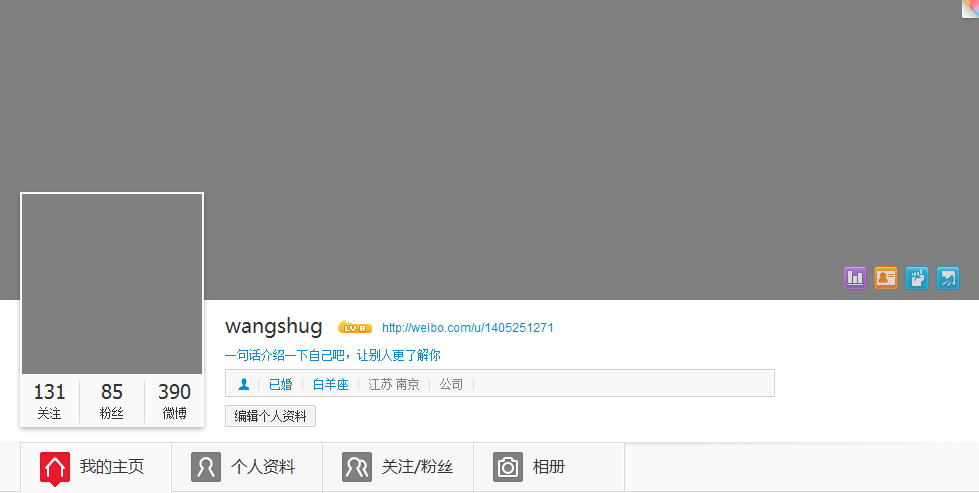
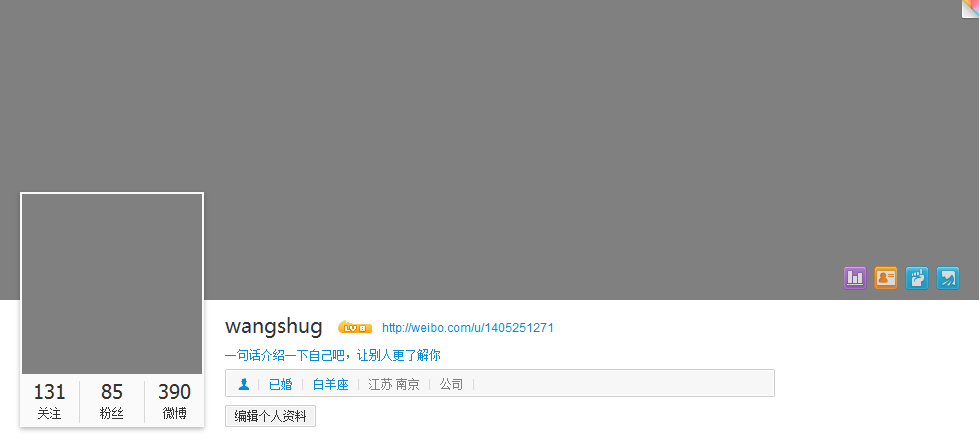
1.change template file size 2.fix bug for image type

diff --git a/js/load-image2.js b/js/load-image2.js
@@ -4,7 +4,7 @@
 	var profile;
 
 	var coverWidth = 980;
-    var templateHeight = 494
+    var templateHeight = 440
 	var coverHeight = 300;
 	var coverAndProfileHeight = 400;
 	var profileFromX = 20;
@@ -29,31 +29,31 @@
 		c.height = templateHeight;
         var h = c.getContext("2d");
            
-	var imageObj = new Image();
-	imageObj.onload = function() {
-		h.drawImage(this, 0, 0);
-		var k = document.createElement("canvas"),
-		l;
-		k.width  = coverWidth;
-		k.height = coverAndProfileHeight;
-		l = k.getContext("2d");
+        var imageObj = new Image();
+        imageObj.onload = function() {
+            h.drawImage(this, 0, 0);
+            var k = document.createElement("canvas"),
+            l;
+            k.width  = coverWidth;
+            k.height = coverAndProfileHeight;
+            l = k.getContext("2d");
 
-		//first draw upload picture this should large than whole heigh of cover and profile
-		l.drawImage(a,0,0, coverWidth, coverAndProfileHeight),
-		//draw profile margin
-		l.rect(profileFromX, profileFromY, profileWithMargin, profileWithMargin),
-		l.lineWidth = marginSize,
-		l.strokeStyle = 'white',
-		l.stroke();
-		//get cover image from process canvas
-		cover = l.getImageData(0, 0, coverWidth, coverHeight);			
-		//get profile image from process canvas
-		profile = l.getImageData(profileFromX, profileFromY, profileWithMargin, profileWithMargin);
-		//put cover into image canvas
-		h.putImageData(cover, 0, 0);
-		//put profile into image canvas
-		h.putImageData(profile, profileFromX,profileFromY);
-		k = l = null
+            //first draw upload picture this should large than whole heigh of cover and profile
+            l.drawImage(a,0,0, coverWidth, coverAndProfileHeight),
+            //draw profile margin
+            l.rect(profileFromX, profileFromY, profileWithMargin, profileWithMargin),
+            l.lineWidth = marginSize,
+            l.strokeStyle = 'white',
+            l.stroke();
+            //get cover image from process canvas
+            cover = l.getImageData(0, 0, coverWidth, coverHeight);			
+            //get profile image from process canvas
+            profile = l.getImageData(profileFromX, profileFromY, profileWithMargin, profileWithMargin);
+            //put cover into image canvas
+            h.putImageData(cover, 0, 0);
+            //put profile into image canvas
+            h.putImageData(profile, profileFromX,profileFromY);
+            k = l = null
 	},
 	imageObj.src = "template.jpg";
 			
@@ -74,7 +74,7 @@
 			   g < 1 && (e = parseInt(e * g, 10), f = parseInt(f * g, 10)), 
 			   a.getContext || 
 			   c.canvas && d.getContext ? 
-			   (d.width = e, d.height = f, a._type === "image/jpeg" ? b.renderImageToCanvas(a, d, e, f) : d.getContext("2d").drawImage(a, 0, 0, e, f), d) : 
+			   (d.width = e, d.height = f, b.renderImageToCanvas(a, d, e, f), d) : 
 			   (a.width = e, a.height = f, a)
     }, b.createObjectURL = function(a) {
         return c ? c.createObjectURL(a) : !1

diff --git a/server/gae-python/main.py b/server/gae-python/main.py
@@ -56,12 +56,15 @@ class UploadHandler(webapp2.RequestHandler):
         return size
     
     def write_blob(self, data, info):
+        buf = cStringIO.StringIO()
+        data.save(buf, info['type'][6:])
+        info['size'] = self.get_file_size(buf)
         blob = files.blobstore.create(
             mime_type=info['type'],
             _blobinfo_uploaded_filename=info['name']
         )
         with files.open(blob, 'a') as f:
-            f.write(data)
+            f.write(buf.getvalue())
         files.finalize(blob)
         return files.blobstore.get_blob_key(blob)
 
@@ -75,10 +78,7 @@ class UploadHandler(webapp2.RequestHandler):
         template_height = int(self.request.POST['template_height'])
         im = Image.open(data).resize([cover_width, template_height])
         out = im.crop([profile_x,profile_y,profile_x + profile_size, profile_y + profile_size])
-        buf = cStringIO.StringIO()
-        out.save(buf, 'JPEG')
-        info['size'] = self.get_file_size(buf)
-        return self.write_blob(buf.getvalue(), info)
+        return self.write_blob(out, info)
         
     def write_cover(self, data, info):
         info['name'] = 'cover_' + info['name']
@@ -86,10 +86,7 @@ class UploadHandler(webapp2.RequestHandler):
         cover_height = int(self.request.POST['cover_info_height'])
         template_height = int(self.request.POST['template_height'])
         out = Image.open(data).resize([cover_width, template_height]).crop([0,0,cover_width, cover_height])
-        buf = cStringIO.StringIO()
-        out.save(buf, 'JPEG')
-        info['size'] = self.get_file_size(buf)
-        return self.write_blob(buf.getvalue(), info)
+        return self.write_blob(out, info)
 
     def handle_upload(self):
         results = []
